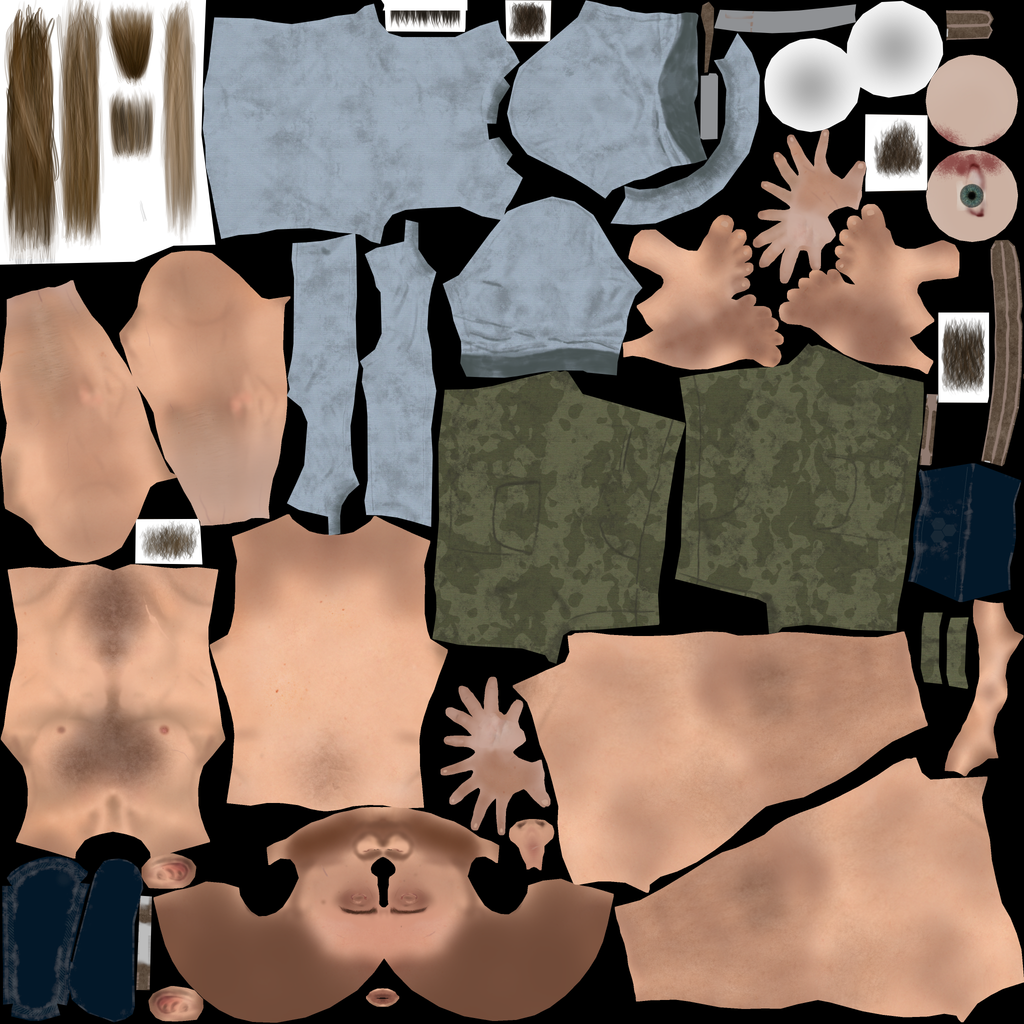
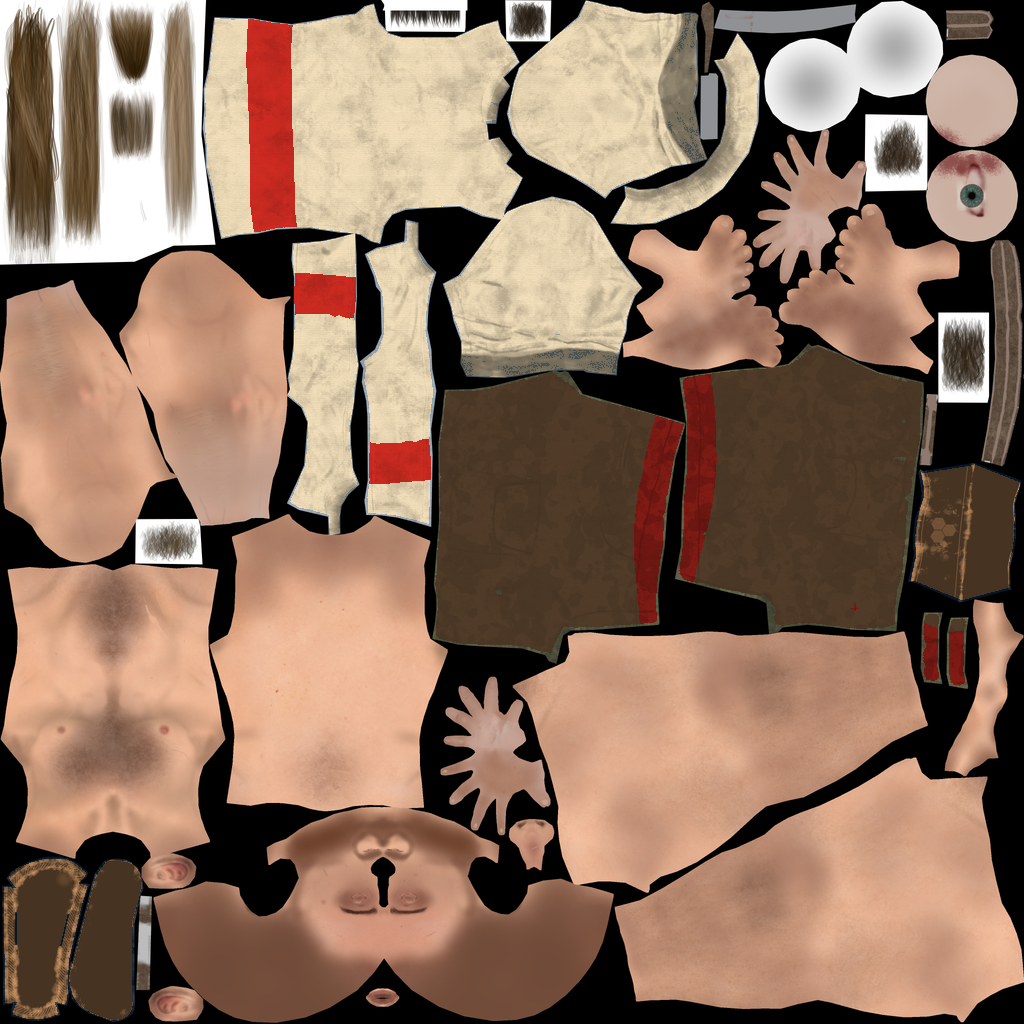
The castaway dresses like the story paintings
The hero in the story art wears a cream linen shirt with a red sash and dark
breeches; the in-game castaway wore a blue shirt and green camo shorts.
Tools/blender/cast_recolour.py recolours the scan's own albedo: cloth is found
by colour, and each texel is placed on the body by rasterising the mesh's UV
triangles with their height, so the sash lands as a band at the waist. The
shape is unchanged. sketchfab.py reruns it after importing the castaway, and
CREDITS.md notes the change (and drops "decimated" from the gull, which wasn't).

Claude-Session: https://claude.ai/code/session_012yMWpPJ26rNyj4EWvGoyec

Changed region(s): [[0.1875, 0.0, 1.0, 0.6875], [0.0, 0.8125, 0.1562, 1.0]]

diff --git a/Tools/blender/cast_recolour.py b/Tools/blender/cast_recolour.py
@@ -1,0 +1,101 @@
+"""Dresses the castaway like the story paintings: cream linen shirt, a red sash at the waist, dark brown breeches and
+leather sandals, by recolouring the scan's own albedo (the model's shape is untouched).
+
+  blender -b --factory-startup -P Tools/blender/cast_recolour.py -- Assets/Resources/Models/Cast/castaway.fbx \
+      Assets/Resources/Models/Cast/tex/castaway_0_albedo.png
+
+Each texel is placed on the body by rasterising the mesh's UV triangles with their height, so the sash is a band at the
+waist whatever the UV layout. Cloth is found by colour (blue shirt, green camo shorts, navy sandals); once recoloured
+none of those colours are left, so running it again changes nothing.
+"""
+import sys
+
+import bpy
+import numpy as np
+
+a = sys.argv[sys.argv.index("--") + 1:]
+fbx, albedo = a[0], a[1]
+
+bpy.ops.wm.read_factory_settings(use_empty=True)
+bpy.ops.import_scene.fbx(filepath=fbx)
+o = next(o for o in bpy.data.objects if o.type == "MESH")
+m = o.evaluated_get(bpy.context.evaluated_depsgraph_get()).to_mesh()
+mw = o.matrix_world
+uv = m.uv_layers.active.data
+
+img = bpy.data.images.load(albedo)
+W, Hh = img.size
+px = np.empty(W * Hh * 4, dtype=np.float32)
+img.pixels.foreach_get(px)
+t = px.reshape(Hh, W, 4)  # row 0 is the bottom, like UV v
+
+# Height above the feet (0..1 of the body) of every texel the mesh uses; -1 elsewhere.
+H = np.full((Hh, W), -1.0, np.float32)
+zs = [(mw @ v.co).z for v in m.vertices]
+z0, z1 = min(zs), max(zs)
+for p in m.polygons:
+    li = list(p.loop_indices)
+    for k in range(1, len(li) - 1):
+        tri = [li[0], li[k], li[k + 1]]
+        U = np.array([uv[i].uv[:] for i in tri]) * (W, Hh)
+        Z = np.array([((mw @ m.vertices[m.loops[i].vertex_index].co).z - z0) / (z1 - z0) for i in tri])
+        x0, y0 = np.floor(U.min(0)).astype(int)
+        x1, y1 = np.ceil(U.max(0)).astype(int)
+        xs, ys = np.meshgrid(np.arange(max(x0, 0), min(x1 + 1, W)), np.arange(max(y0, 0), min(y1 + 1, Hh)))
+        if xs.size == 0:
+            continue
+        (ax, ay), (bx, by), (cx, cy) = U
+        d = (by - cy) * (ax - cx) + (cx - bx) * (ay - cy)
+        if abs(d) < 1e-9:
+            continue
+        l1 = ((by - cy) * (xs + .5 - cx) + (cx - bx) * (ys + .5 - cy)) / d
+        l2 = ((cy - ay) * (xs + .5 - cx) + (ax - cx) * (ys + .5 - cy)) / d
+        l3 = 1 - l1 - l2
+        ins = (l1 >= -0.02) & (l2 >= -0.02) & (l3 >= -0.02)
+        H[ys[ins], xs[ins]] = (l1 * Z[0] + l2 * Z[1] + l3 * Z[2])[ins]
+
+rgb = t[..., :3]
+r, g, b = rgb[..., 0], rgb[..., 1], rgb[..., 2]
+mx, mn = rgb.max(-1), rgb.min(-1)
+sat = (mx - mn) / np.maximum(mx, 1e-3)
+lum = rgb @ np.array([0.2126, 0.7152, 0.0722], np.float32)
+on = H >= 0
+
+
+def near(mask, rad):
+    """Share of mask texels in the (2 rad + 1)^2 box around each texel."""
+    c = np.pad(mask.astype(np.float32), rad + 1).cumsum(0).cumsum(1)
+    n = 2 * rad + 1
+    return (c[n:, n:] - c[:-n, n:] - c[n:, :-n] + c[:-n, :-n])[:Hh, :W] / (n * n)
+
+
+skin = (r > g + 0.06) & (g > b) & (sat > 0.15)
+blue = on & (b > r + 0.04) & (b >= g)
+shirt = blue & (H > 0.3)  # the hems' darker insides too
+sandals = blue & (H < 0.06)
+green = on & (g > r) & (g > b) & (sat > 0.12) & (H > 0.25) & (H < 0.62)
+# Camo: the dark blotches aren't green, so take every non-skin texel in a mostly green neighbourhood.
+shorts = on & ~skin & (near(green, 6) > 0.25) & (H > 0.25) & (H < 0.62)
+# The sash: a hand's width at the waist, over the shirt's hem and the top of the breeches.
+sash = (shirt | shorts) & (H > 0.545) & (H < 0.6)
+print("[recolour] shirt", int(shirt.sum()), "shorts", int(shorts.sum()), "sash", int(sash.sum()), "sandals", int(sandals.sum()))
+
+
+def dye(mask, colour, keep):
+    """Repaint mask in colour, keeping `keep` of the cloth's own light and dark (folds, weave) around its mean."""
+    if not mask.any():
+        return
+    rel = lum[mask] / max(float(lum[mask].mean()), 1e-3)
+    shade = 1 + (rel - 1) * keep
+    rgb[mask] = np.clip(np.array(colour, np.float32)[None, :] * shade[:, None], 0, 1)
+
+
+# sRGB colours (an 8-bit PNG's pixels come back as stored).
+dye(shirt & ~sash, (0.86, 0.79, 0.66), 1.0)   # undyed linen
+dye(shorts & ~sash, (0.30, 0.22, 0.15), 0.35)  # dark brown breeches; the camo blotches mostly fade out
+dye(sash, (0.62, 0.13, 0.10), 0.8)            # faded red cloth
+dye(sandals, (0.33, 0.24, 0.16), 0.8)          # leather
+t[..., :3] = rgb
+img.pixels.foreach_set(t.ravel())
+img.save()
+print("[recolour] wrote", albedo)

diff --git a/Tools/art/sketchfab.py b/Tools/art/sketchfab.py
@@ -42,7 +42,8 @@ SKELETON_HANDS = {"l": ["L_forarm", ["L_hand1", "L_hand2", "L_hand3", "L_hand4",
 # id: Sketchfab uid, title, author (username), role in the game, height (m), triangle budget, import cfg.
 CAST = {
     "castaway": dict(uid="6a481c17d68a4a138f726ccb76caedff", title="Castaway", author="katarzynaszemla",
-                     role="the player's castaway", height=1.8, tris=30000,
+                     role="the player's castaway", height=1.8, tris=30000, recolour=True,
+                     done="decimated, rig renamed, clothes recoloured to match the story paintings (linen shirt, red sash, brown breeches)",
                      cfg={"map": dict(cat("CATRig", "l"), **cat("CATRig", "r"), **{
                          "CATRigpelvis": "pelvis", "CATRigSpinespine1": "spine_01", "CATRigSpinespine2": "spine_02",
                          "CATRigchest": "spine_03", "CATRigSpineneck1": "neck_01", "CATRighead": "Head",
@@ -91,7 +92,7 @@ CREATURES = {
                   author="ffishAsia-and-floraZia", license="CC0", role="the vipers (thickened, spine bent in code)",
                   size=2.4, tris=7000, cfg={"yaw": 90, "rest": 0, "girth": 1.8}),
     "gull": dict(uid="985024328902444c8270c0f09acc897e", title="Low-Poly Seagull (with Animation & Rigged)",
-                 author="simonaskLDE", role="the gulls over the shore (wings flapped in code)", size=1.3, tris=1000,
+                 author="simonaskLDE", role="the gulls over the shore (wings flapped in code)", done="rig kept", size=1.3, tris=1000,
                  cfg={"pitch": -90}),
 }
 PROPS = {
@@ -131,6 +132,12 @@ def cast(i):
                        capture_output=True, text=True)
     out = [l for l in r.stdout.splitlines() if l.startswith("[cast]") or "Error" in l or "Traceback" in l]
     print("\n".join(out) or r.stdout[-2000:] + r.stderr[-2000:])
+    if c.get("recolour"):
+        # Dressed like the story paintings (Tools/blender/cast_recolour.py).
+        r = subprocess.run(["blender", "-b", "--factory-startup", "-P", os.path.join(ROOT, "Tools", "blender", "cast_recolour.py"), "--",
+                            os.path.join(CAST_DIR, i + ".fbx"), os.path.join(CAST_DIR, "tex", i + "_0_albedo.png")],
+                           capture_output=True, text=True)
+        print("\n".join(l for l in r.stdout.splitlines() if l.startswith("[recolour]") or "Error" in l) or r.stderr[-2000:])
 
 
 def creature(i):
@@ -160,7 +167,7 @@ def credit_lines():
     lines = []
     for i, c in list(CAST.items()) + list(OTHER.items()):
         extra = ("; " + c["extra"]) if c.get("extra") else ""
-        done = "decimated, rig renamed" if i in CAST else "decimated, rig kept" if i in CREATURES else "maps repacked"
+        done = c.get("done") or ("decimated, rig renamed" if i in CAST else "decimated, rig kept" if i in CREATURES else "maps repacked")
         lines.append('- "%s" by %s (https://sketchfab.com/3d-models/%s), %s%s. Used as %s; rescaled, %s.'
                      % (c["title"], c["author"], c["uid"], c.get("license", "CC BY 4.0"), extra, c["role"], done))
     return lines

diff --git a/CREDITS.md b/CREDITS.md
@@ -16,7 +16,7 @@ Re-download and convert the free models with `python3 Tools/art/free_assets.py f
 
 ## Sketchfab (CC BY 4.0 and CC0)
 
-- "Castaway" by katarzynaszemla (https://sketchfab.com/3d-models/6a481c17d68a4a138f726ccb76caedff), CC BY 4.0. Used as the player's castaway; rescaled, decimated, rig renamed.
+- "Castaway" by katarzynaszemla (https://sketchfab.com/3d-models/6a481c17d68a4a138f726ccb76caedff), CC BY 4.0. Used as the player's castaway; rescaled, decimated, rig renamed, clothes recoloured to match the story paintings (linen shirt, red sash, brown breeches).
 - "Pirate Captain" by byenbyen (https://sketchfab.com/3d-models/bae2223031094f629ad86242e26a37e6), CC BY 4.0. Used as Red Jack; rescaled, decimated, rig renamed.
 - "Game ready Pirate Hunter / Viking / Medieval man" by chenuka_wy (https://sketchfab.com/3d-models/9f51d396733b451bab550b406b067805), CC BY 4.0; its jacket is "Gambeson" by Leon.Steiner (https://sketchfab.com/3d-models/0fc44d2876ed449ca9473e78c83a8d39), CC BY 4.0. Used as Red Jack's raiders; rescaled, decimated, rig renamed.
 - "Pirate Girl" by Anriil_Kl (https://sketchfab.com/3d-models/8e71658a2f93410e8905aa7a160bc5d9), CC BY 4.0. Used as Mara; rescaled, decimated, rig renamed.
@@ -27,7 +27,7 @@ Re-download and convert the free models with `python3 Tools/art/free_assets.py f
 - "Skeleton Pirate " The Drunk "" by ShadowCoffee (https://sketchfab.com/3d-models/9ed1650abdce48d4a1a4d34a4a56cfc5), CC BY 4.0. Used as drowned smugglers; rescaled, decimated, rig renamed.
 - "Japanese Freshwater Crab" by ffishAsia-and-floraZia (https://sketchfab.com/3d-models/35559c2236d04c1a80ccbe08cae863c6), CC0. Used as the giant crabs; rescaled, decimated, rig kept.
 - "Striped Snake, Elaphe quadrivirgata" by ffishAsia-and-floraZia (https://sketchfab.com/3d-models/0f4f583d5e3842eca1152c0bb021ec32), CC0. Used as the vipers (thickened, spine bent in code); rescaled, decimated, rig kept.
-- "Low-Poly Seagull (with Animation & Rigged)" by simonaskLDE (https://sketchfab.com/3d-models/985024328902444c8270c0f09acc897e), CC BY 4.0. Used as the gulls over the shore (wings flapped in code); rescaled, decimated, rig kept.
+- "Low-Poly Seagull (with Animation & Rigged)" by simonaskLDE (https://sketchfab.com/3d-models/985024328902444c8270c0f09acc897e), CC BY 4.0. Used as the gulls over the shore (wings flapped in code); rescaled, rig kept.
 - "Old Rowboat" by toomanydemons (https://sketchfab.com/3d-models/9922d5678af84adeb1c9b479856446ca), CC BY 4.0. Used as the rowboat, the beached boat on Driftwood Shore and the boat at the pier; rescaled, maps repacked.
 - "Iron Ore (FREE)" by vxdesigns (https://sketchfab.com/3d-models/93118b922cbb48caa4f45b16592fa519), CC BY 4.0. Used as the iron veins; rescaled, maps repacked.
 - "Lighthouse" by stnabeal (https://sketchfab.com/3d-models/9cc7e0ae47824e198ad5dd296644c125), CC BY 4.0. Used as the lighthouse on Lighthouse Point; rescaled, maps repacked.

diff --git a/CLAUDE.md b/CLAUDE.md
@@ -111,7 +111,8 @@ setting only.
   orientation), played through a Playables mixer (`Actors/HumanMotion.cs`, no AnimatorController). `CharacterArt`
   maps the game's clip names (Idle/Walk/Run/Sword/HitReact/Death/Wave/Duck) onto them; the castaway (`SurvivorArt`)
   walks/jogs/sprints by speed, crouch-walks when sneaking, kneels to build, and keeps the bone-aimed work poses on top.
-  Cast: castaway (player), captain (Red Jack), hunter (raiders), mara, tomas, ned, revna, smuggler/smuggler2. Only
+  Cast: castaway (player; dressed like the story paintings, cream linen shirt, red sash, brown breeches, by
+  `Tools/blender/cast_recolour.py`, which `sketchfab.py cast castaway` reruns), captain (Red Jack), hunter (raiders), mara, tomas, ned, revna, smuggler/smuggler2. Only
   CC BY/CC0 originals: no fan art of other games/films. Sketchfab glbs sometimes lack their textures (both animated
   boars did): render a preview before using one.
 - Realistic animals (`Tools/art/sketchfab.py creature`, `Tools/blender/creature_import.py`, Generic rigs in
